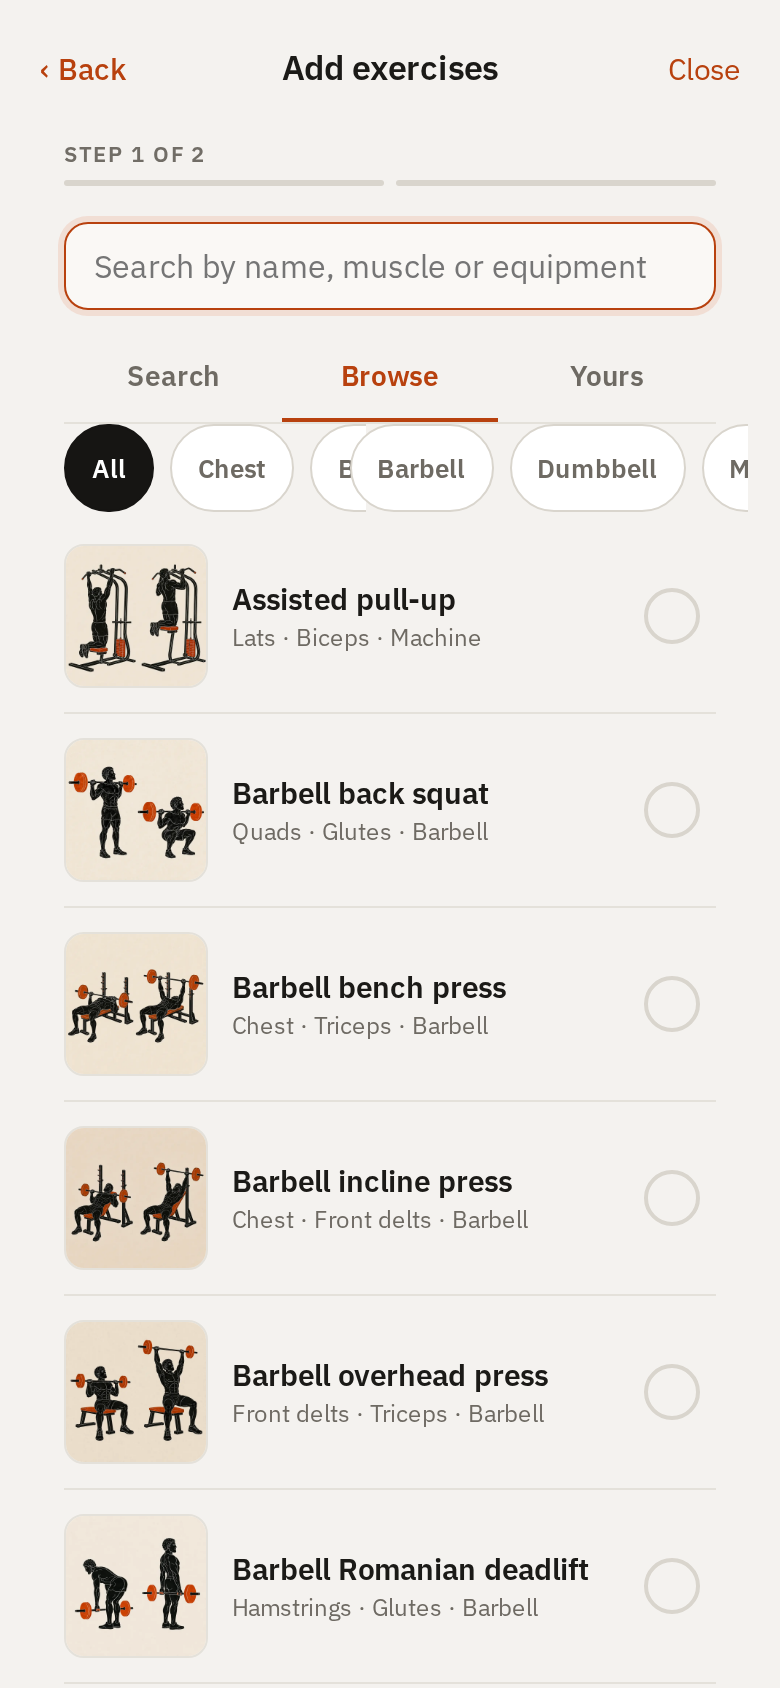
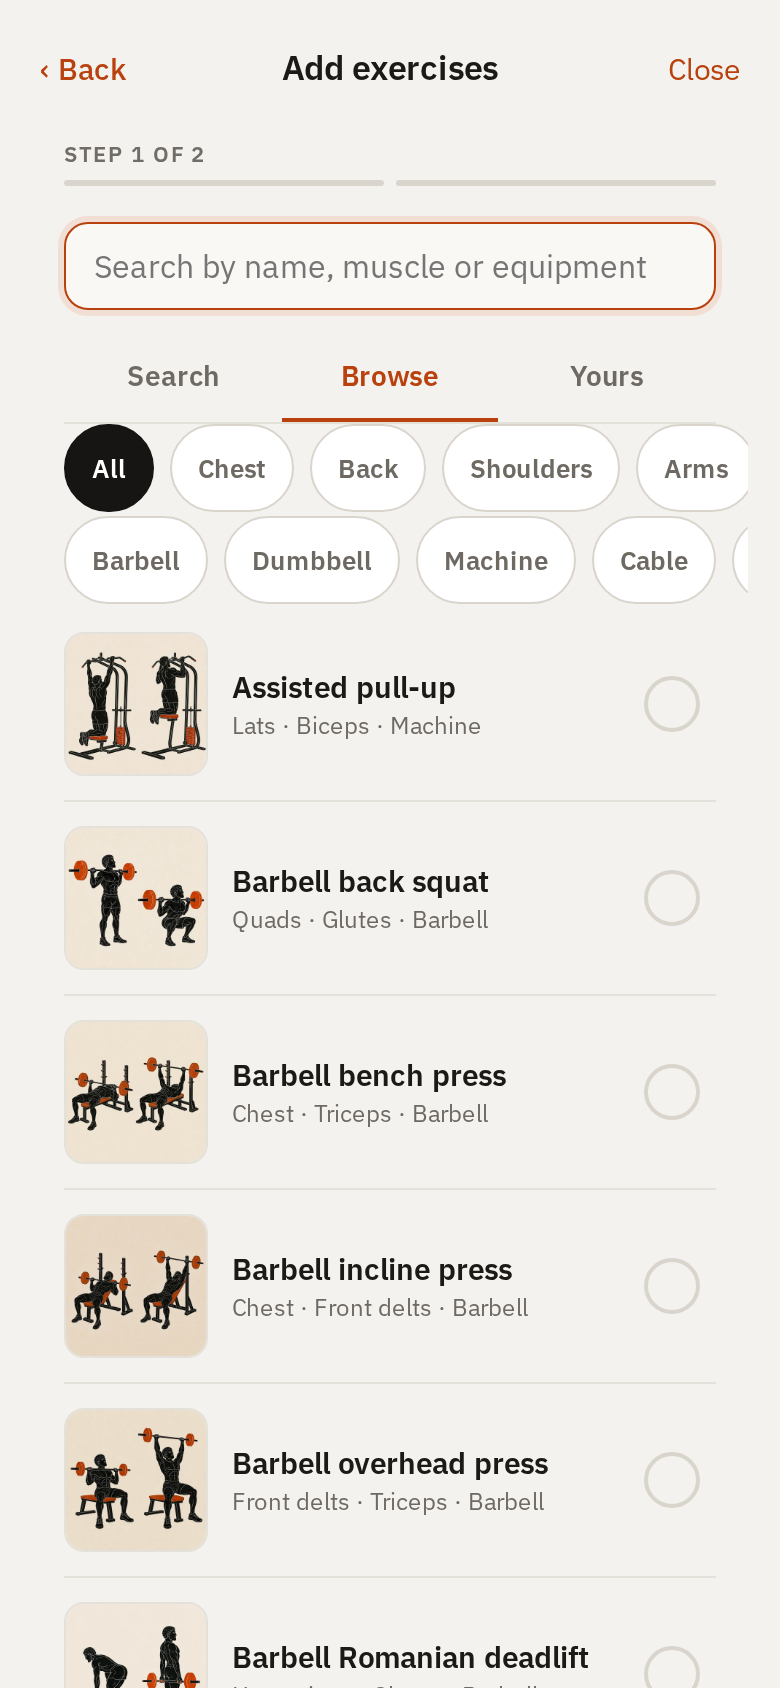
fix(ui): stack library filter rails

diff --git a/sw.js b/sw.js
@@ -1,9 +1,9 @@
-const CACHE = "repforge-v177";
+const CACHE = "repforge-v178";
 const ASSETS = [
   "./", "./index.html", "./styles.css", "./manifest.webmanifest",
   "./telemetry.js", "./posthog-init.js", "./schedule.js", "./notify.js", "./i18n.js", "./exercises.js",
-  "./progression-engine.js", "./program-compiler.js", "./program-compiler.js?v=177", "./program-entry.js", "./program-entry.js?v=177", "./program-entry-adapter.js", "./program-entry-adapter.js?v=177", "./program-editor.js", "./program-editor.js?v=168",
-  "./shared-setup.js", "./shared-setup.js?v=177", "./app.js", "./app.js?v=177",
+  "./progression-engine.js", "./program-compiler.js", "./program-compiler.js?v=178", "./program-entry.js", "./program-entry.js?v=178", "./program-entry-adapter.js", "./program-entry-adapter.js?v=178", "./program-editor.js", "./program-editor.js?v=168",
+  "./shared-setup.js", "./shared-setup.js?v=178", "./app.js", "./app.js?v=178",
   "./icons/icon.svg", "./icons/favicon-32.png", "./icons/icon-192.png",
   "./icons/icon-512.png", "./icons/icon-1024.png",
   "./icons/icon-maskable-512.png", "./icons/apple-touch-icon.png",

diff --git a/index.html b/index.html
@@ -935,11 +935,11 @@
   <script src="i18n.js"></script>
   <script src="exercises.js"></script>
   <script src="progression-engine.js"></script>
-  <script src="program-compiler.js?v=177"></script>
-  <script src="program-entry.js?v=177"></script>
-  <script src="program-entry-adapter.js?v=177"></script>
+  <script src="program-compiler.js?v=178"></script>
+  <script src="program-entry.js?v=178"></script>
+  <script src="program-entry-adapter.js?v=178"></script>
   <script src="program-editor.js?v=168"></script>
-  <script src="shared-setup.js?v=177"></script>
-  <script src="app.js?v=177"></script>
+  <script src="shared-setup.js?v=178"></script>
+  <script src="app.js?v=178"></script>
 </body>
 </html>

diff --git a/styles.css b/styles.css
@@ -1352,6 +1352,7 @@ body.is-sheet-open{overflow:hidden}
 .libstep__bar{height:3px;border-radius:2px;background:var(--rule-strong)}
 .libstep__bar.is-done{background:var(--accent-deep)}
 #libSearch{margin:0 0 12px}
+#libFilters{display:block;overflow:visible;margin:0;padding:0}
 .pick__filters--row{margin:10px -16px 0;padding:0 16px 2px}
 .pick__list--page{max-height:none;overflow:visible;margin:12px -16px 0;padding:0 16px}
 
